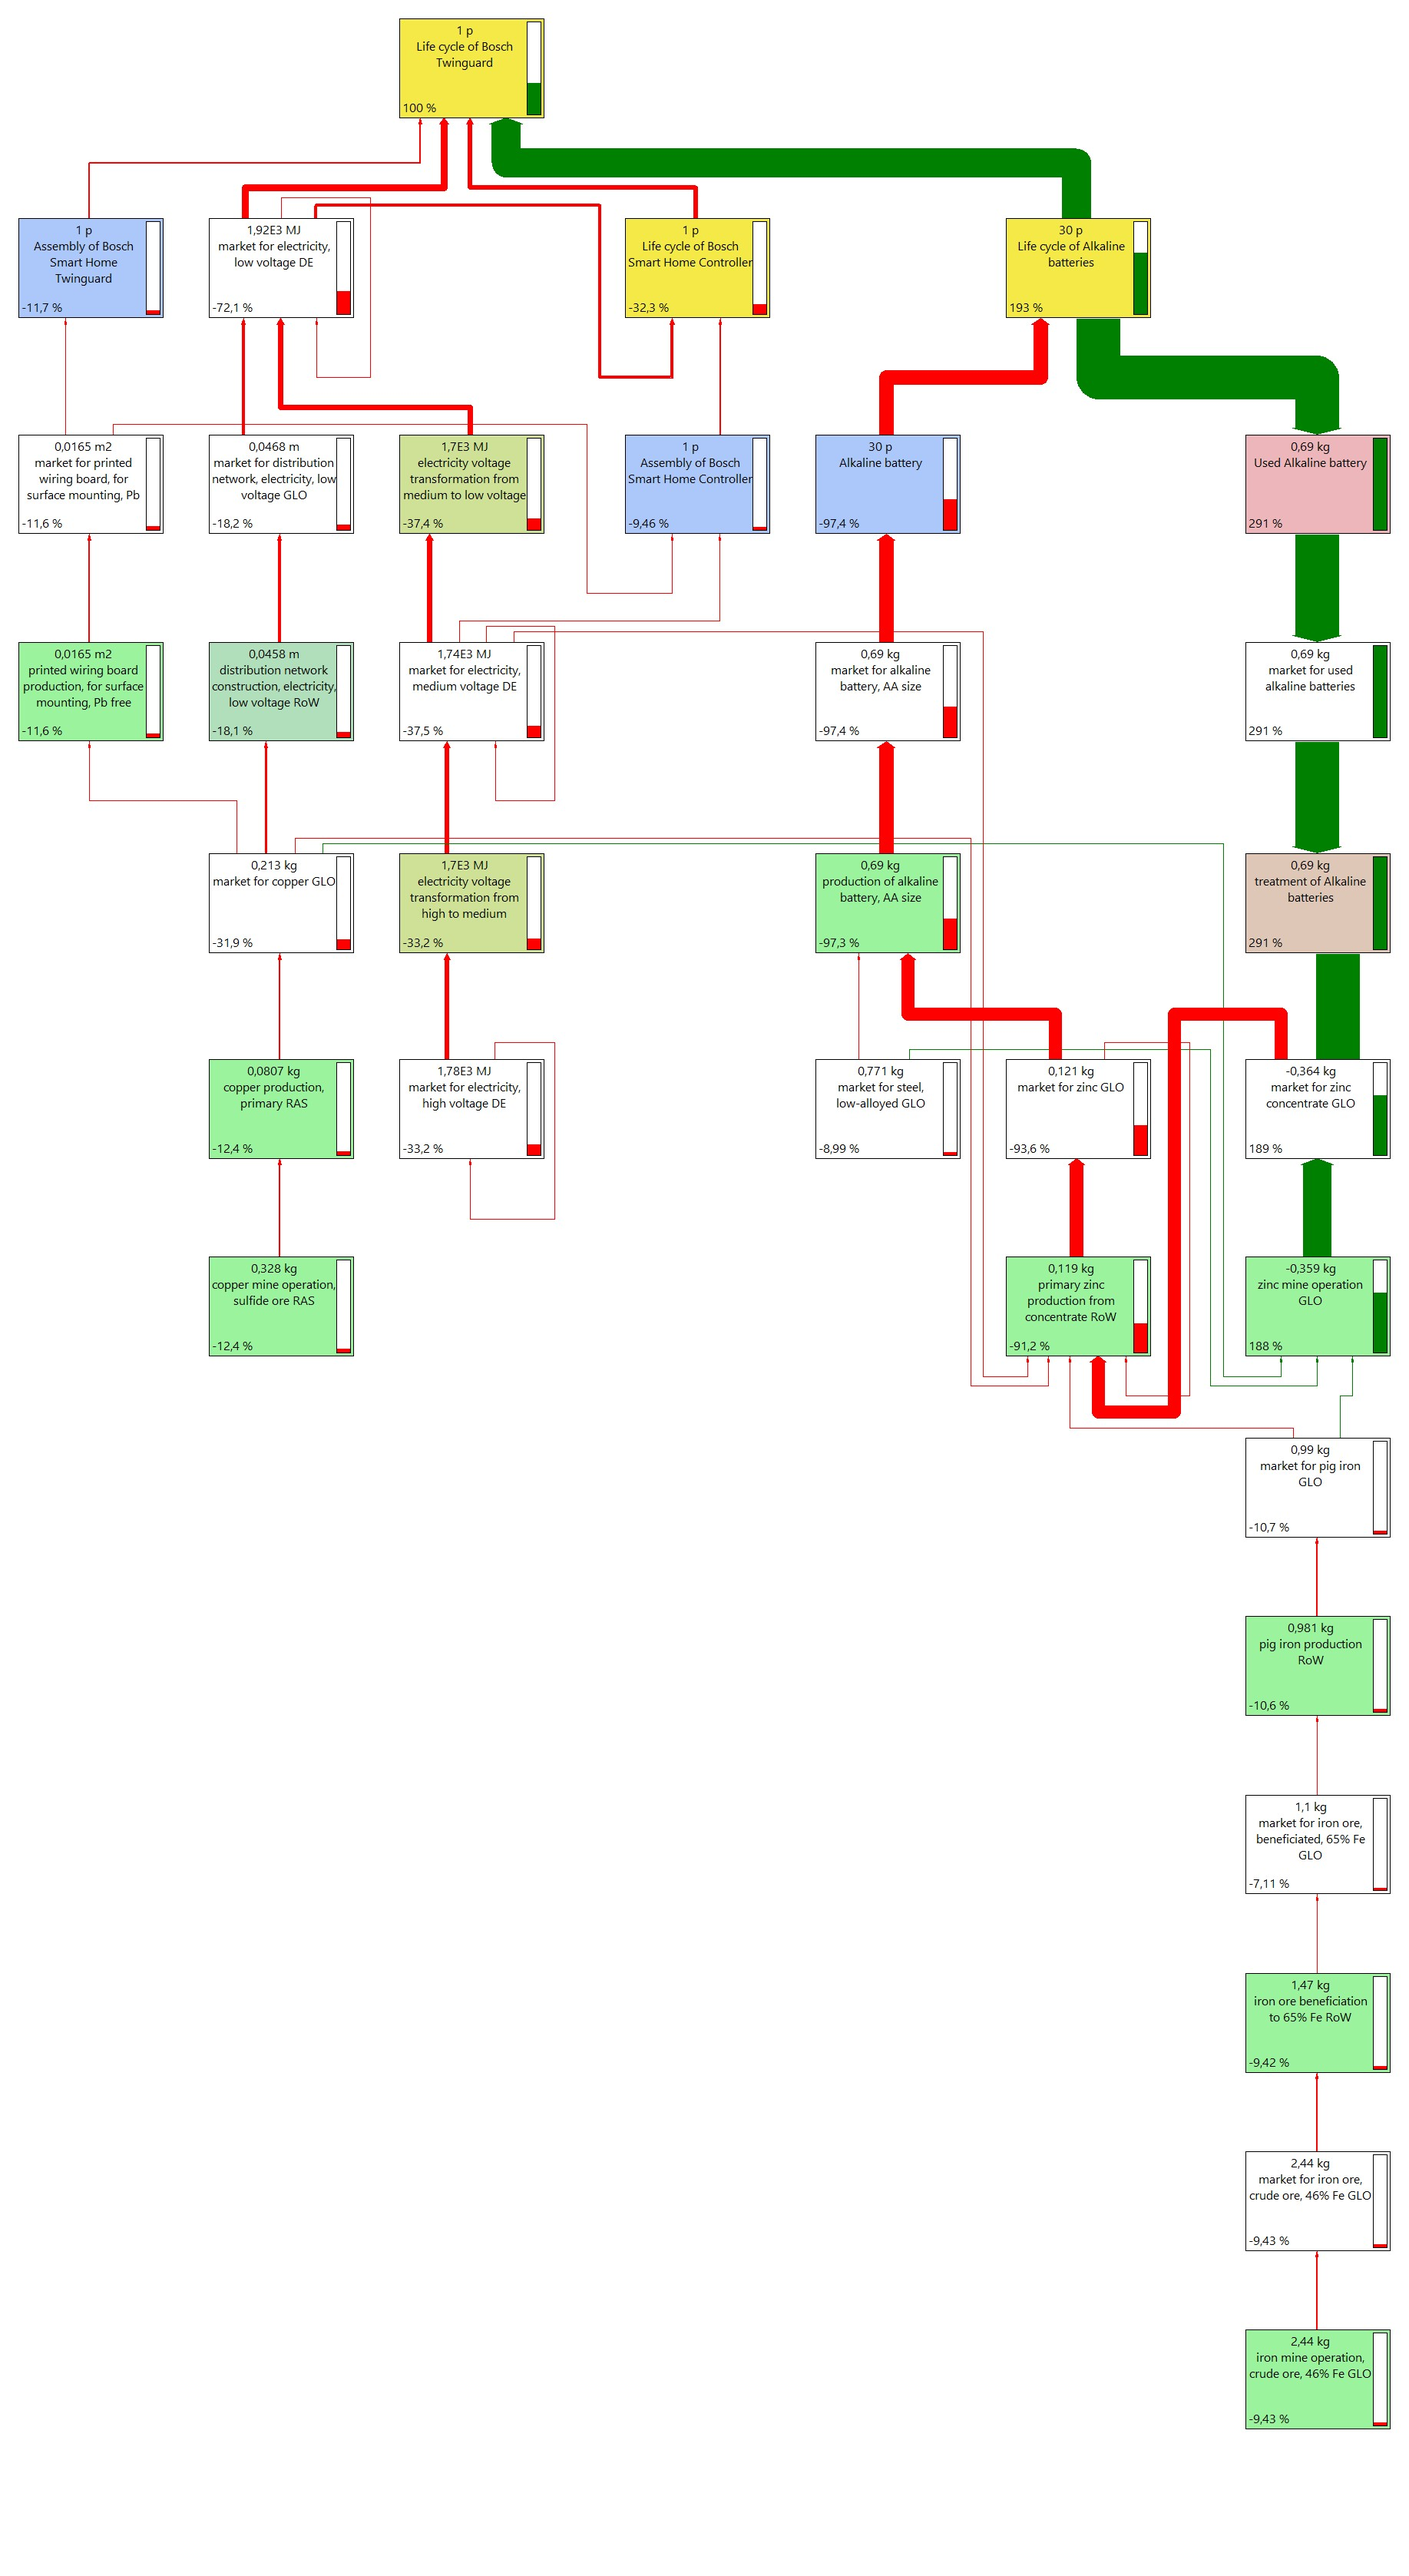
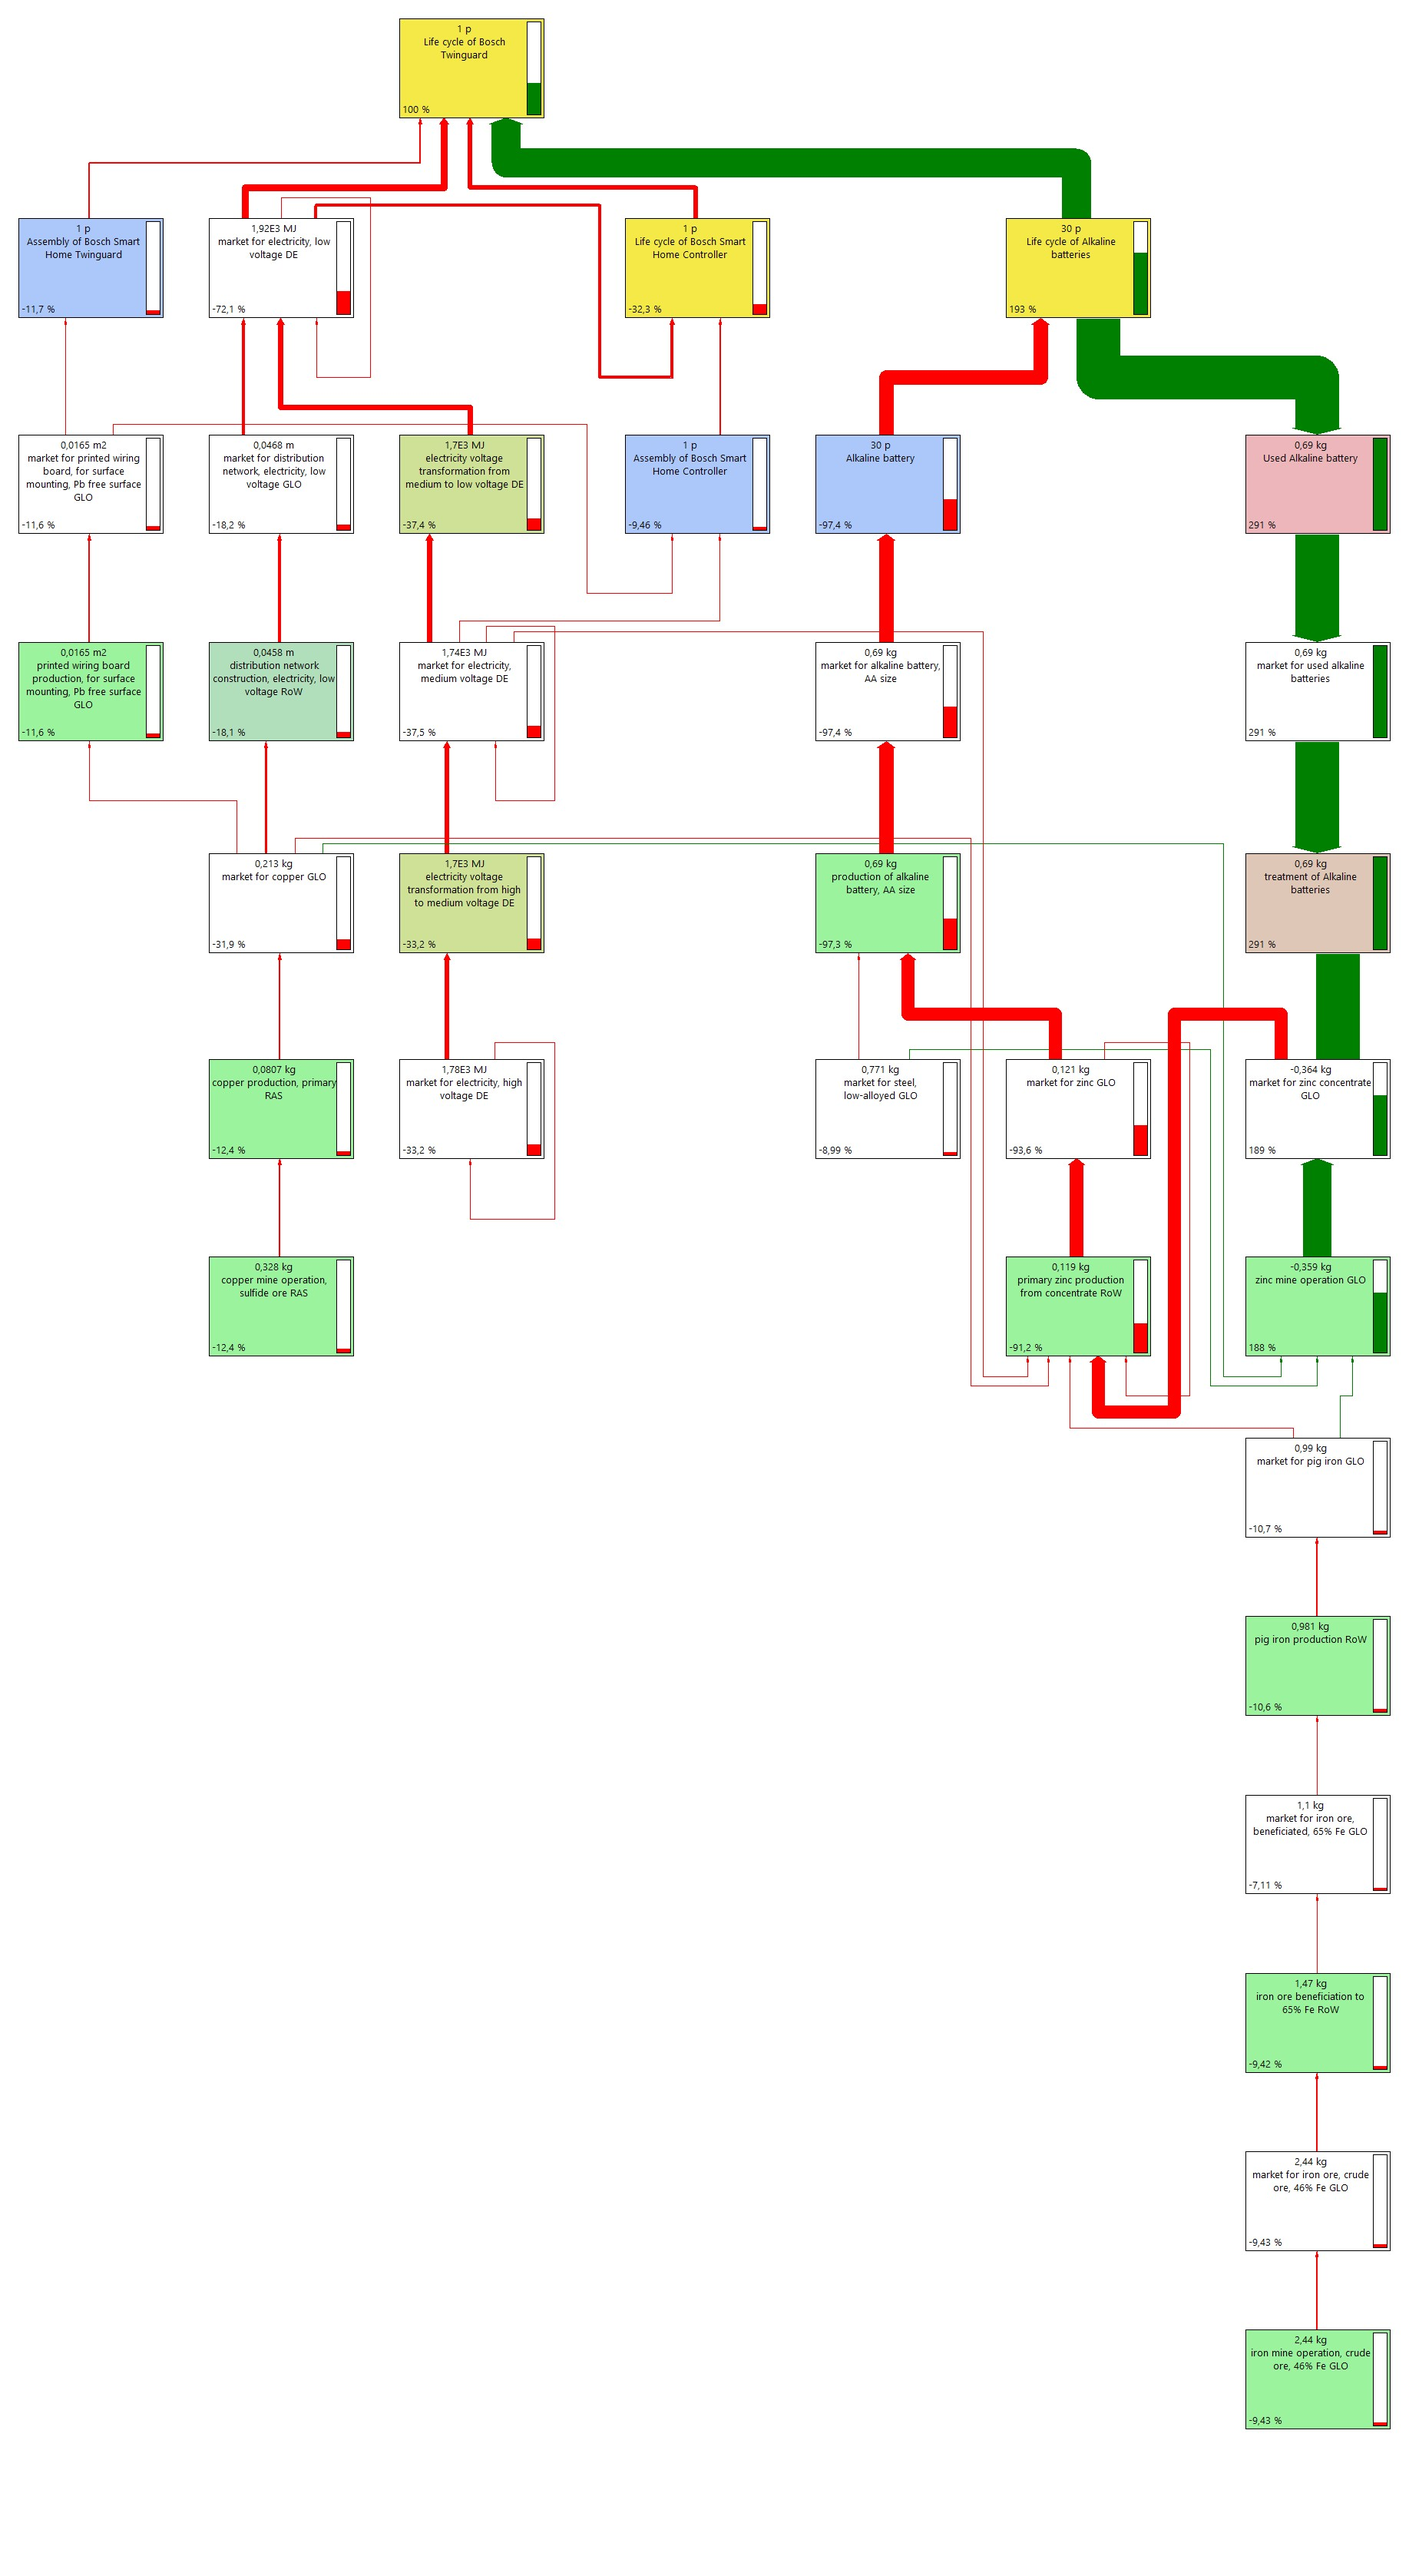
Fixed language errors and updated images

diff --git a/Supplementary_Material.md b/Supplementary_Material.md
@@ -157,7 +157,7 @@ Hydrochloric acid, without water, in 30 % solution state {RER}\| market for \| C
 Limestone, crushed, washed {RoW}\| market for limestone, crushed, washed \| Cut-off, U | 17 | kg
 **Inputs from technosphere: electricity/heat** | **Amount** | **Unit**
 Electricity, medium voltage {Europe without Switzerland}\| market group for \| Cut-off, U | 330 | kWh
-**Emissionen to air** | **Amount** | **Unit**
+**Emissions to air** | **Amount** | **Unit**
 Carbon monoxide, fossil | 25 | mg
 Nitrogen oxides | 30 | mg
 Lead | 0.0005 | mg
@@ -169,7 +169,7 @@ Furan | 0.002 | ng
 Sulfur dioxide | 3 | mg
 Hydrogen chloride | 0.55 | mg
 Particulates, < 2.5 | 0.5 | mg
-**Outputs zur Technosphäre. Abfälle und Emissionen zur Behandlung** | **Menge** | **Einheit**
+**Outputs to technosphere: Waste treatment** | **Amount** | **Unit**
 Scrap steel {Europe without Switzerland}\| market for scrap steel \| Cut-off, U | 150 | kg
 Average incineration residue {RoW}\| market for average incineration residue \| Cut-off, U | 33 | kg
 Wastewater, average {Europe without Switzerland}\| market for wastewater, average \| Cut-off, U | 9 | m<sup>3</sup>
@@ -237,14 +237,14 @@ Used Alkaline battery cell, market for<sup>13</sup> | 100 % |
 
 ### 2.2. Impact Assessment
 #### Characterization
-![Alt Image Text](Images_English/Characterization_Twinguard_Lifecycle.JPG "Characterization, created with SimaPro (version 9.1.1.1)")*Image 2.2.1: Characterization of Twinguard Lifecycle, created with SimaPro (version 9.1.1.1)*
+![Alt Image Text](Images_English/Characterisation.JPG "Characterization, created with SimaPro (version 9.1.1.1)")*Image 2.2.1: Characterization of Twinguard Lifecycle, created with SimaPro (version 9.1.1.1)*
 
 ### 2.3. Normalization
 #### Normalization with ReCiPe 2016 Midpoint (H)
-![Alt Image Text](Images_English/Normalization_Twinguard_Lifecycle_ReCiPe.JPG "Normalization with ReCiPe 2016 Midpoint (H), created with SimaPro (version 9.1.1.1)")*Image 2.3.1: Normalization of Twinguard Lifecycle with ReCiPe 2016 Midpoint (H), created with SimaPro (version 9.1.1.1)*
+![Alt Image Text](Images_English/Normalisation_ReCiPe.JPG "Normalization with ReCiPe 2016 Midpoint (H), created with SimaPro (version 9.1.1.1)")*Image 2.3.1: Normalization of Twinguard Lifecycle with ReCiPe 2016 Midpoint (H), created with SimaPro (version 9.1.1.1)*
 
 #### Normalization with ILCD 2011 Midpoint+
-![Alt Image Text](Images_English/Normalization_Twinguard_Lifecycle_ILCD.JPG "Normalization with ILCD 2011 Midpoint+, created with SimaPro (version 9.1.1.1)")*Image 2.3.2: Normalization with ILCD 2011 Midpoint+, created with SimaPro (version 9.1.1.1)*
+![Alt Image Text](Images_English/Normalisation_ILCD.JPG "Normalization with ILCD 2011 Midpoint+, created with SimaPro (version 9.1.1.1)")*Image 2.3.2: Normalization with ILCD 2011 Midpoint+, created with SimaPro (version 9.1.1.1)*
 
 ### 3. Analysis
 ### 3.1. Hotspot Analysis
